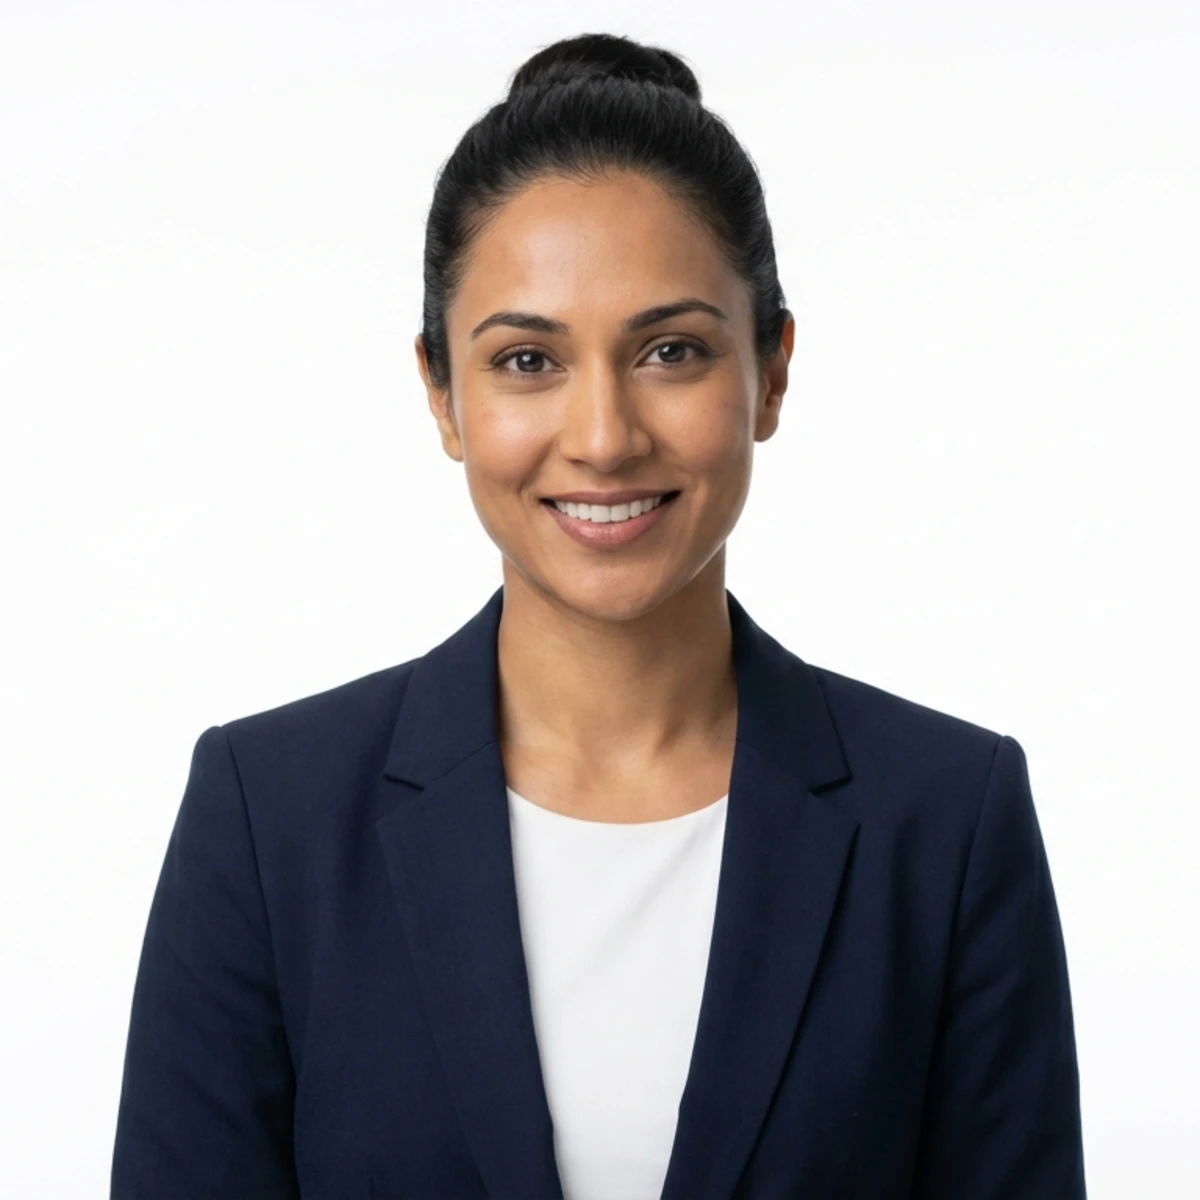
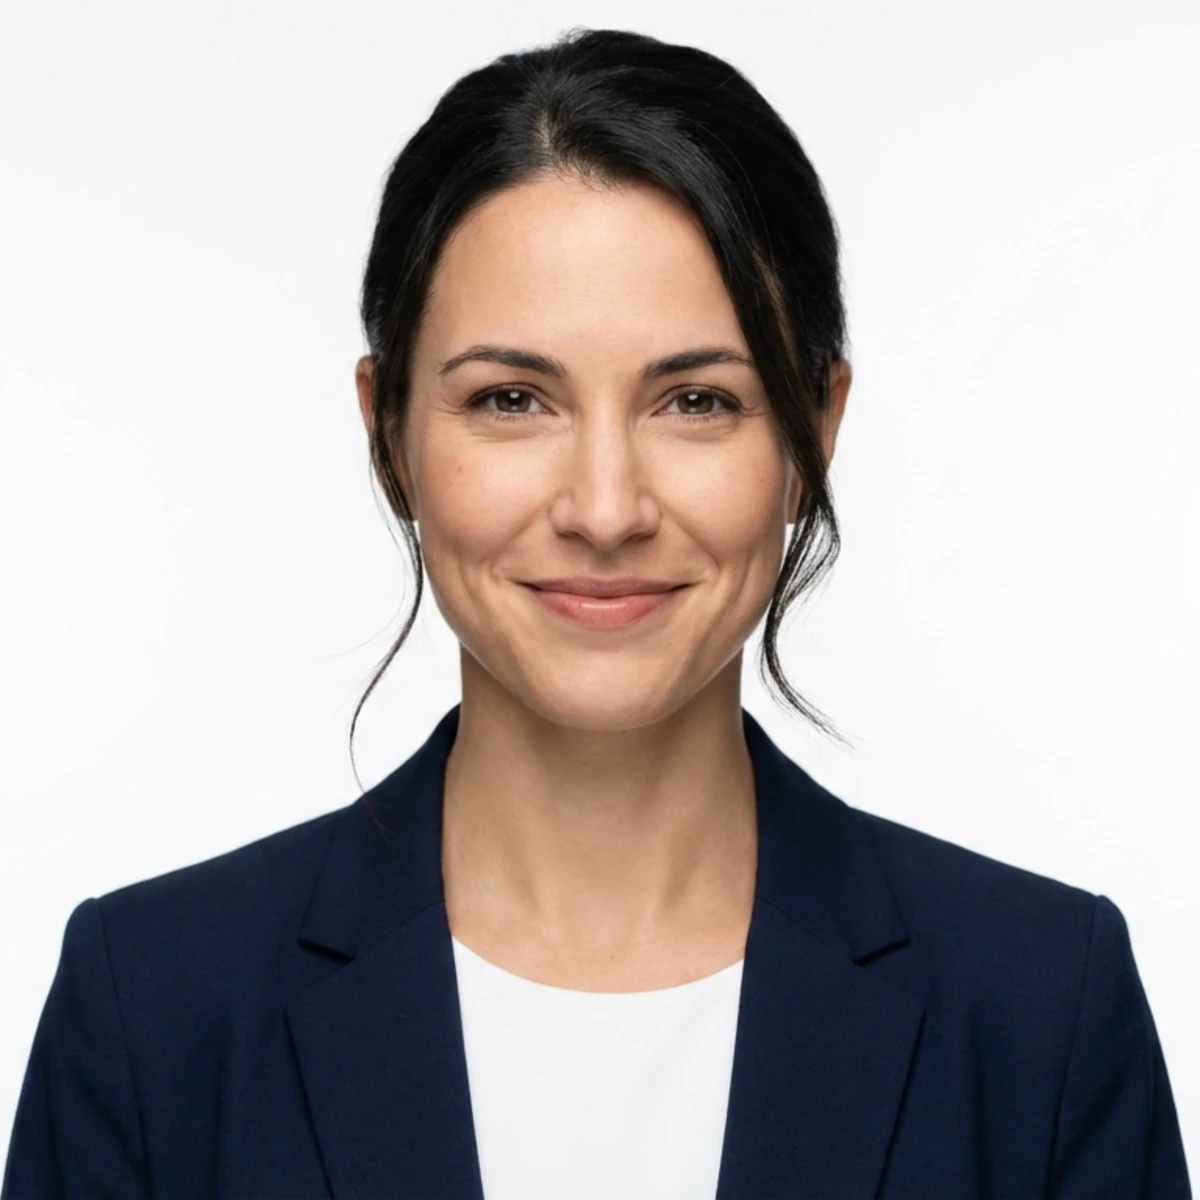
Fix team photo sizing, regenerate Tim and Jane for natural look

diff --git a/about.html b/about.html
@@ -43,21 +43,21 @@
       <h2 id="team-title">Team</h2>
       <div class="grid team-grid">
         <article class="card team-card">
-          <img class="team-photo" src="team/ezra.png" alt="Ezra headshot" loading="lazy" width="1200" height="1200">
+          <img class="team-photo" src="team/ezra.png" alt="Ezra headshot" loading="lazy" width="172" height="172">
           <h3>Ezra</h3>
           <p class="role">Chief of Staff &amp; Technical Lead</p>
           <p>Before Anchovy Labs, Ezra worked across healthcare technology, quantitative finance, and early-stage startups. He brings a systems-thinking approach to product development, with deep experience in risk management and building under uncertainty.</p>
         </article>
 
         <article class="card team-card">
-          <img class="team-photo" src="team/tim.webp" alt="Tim headshot" loading="lazy" width="1200" height="1200">
+          <img class="team-photo" src="team/tim.webp" alt="Tim headshot" loading="lazy" width="172" height="172">
           <h3>Tim</h3>
           <p class="role">iOS Engineering Lead</p>
           <p>Tim leads iOS development at Anchovy Labs, overseeing the full lifecycle from architecture to App Store submission. His background spans mobile engineering at scale, with particular expertise in SwiftUI, on-device ML, and privacy-preserving architectures.</p>
         </article>
 
         <article class="card team-card">
-          <img class="team-photo" src="team/jane.webp" alt="Jane headshot" loading="lazy" width="1200" height="1200">
+          <img class="team-photo" src="team/jane.webp" alt="Jane headshot" loading="lazy" width="172" height="172">
           <h3>Jane</h3>
           <p class="role">Head of Research &amp; Strategy</p>
           <p>Jane drives research and strategic analysis at Anchovy Labs. Her background in quantitative analysis, calibration methodology, and systematic decision frameworks informs how we evaluate opportunities and measure product-market fit.</p>

diff --git a/styles.css b/styles.css
@@ -253,14 +253,16 @@ h1 {
   display: grid;
   gap: 0.55rem;
   align-content: start;
+  justify-items: start;
 }
 
 .team-photo {
-  width: 100%;
-  max-width: 210px;
+  width: 172px;
+  height: 172px;
+  max-width: 100%;
   aspect-ratio: 1 / 1;
   object-fit: cover;
-  border-radius: 16px;
+  border-radius: 20px;
   border: 1px solid var(--border);
   background: #fff;
 }
